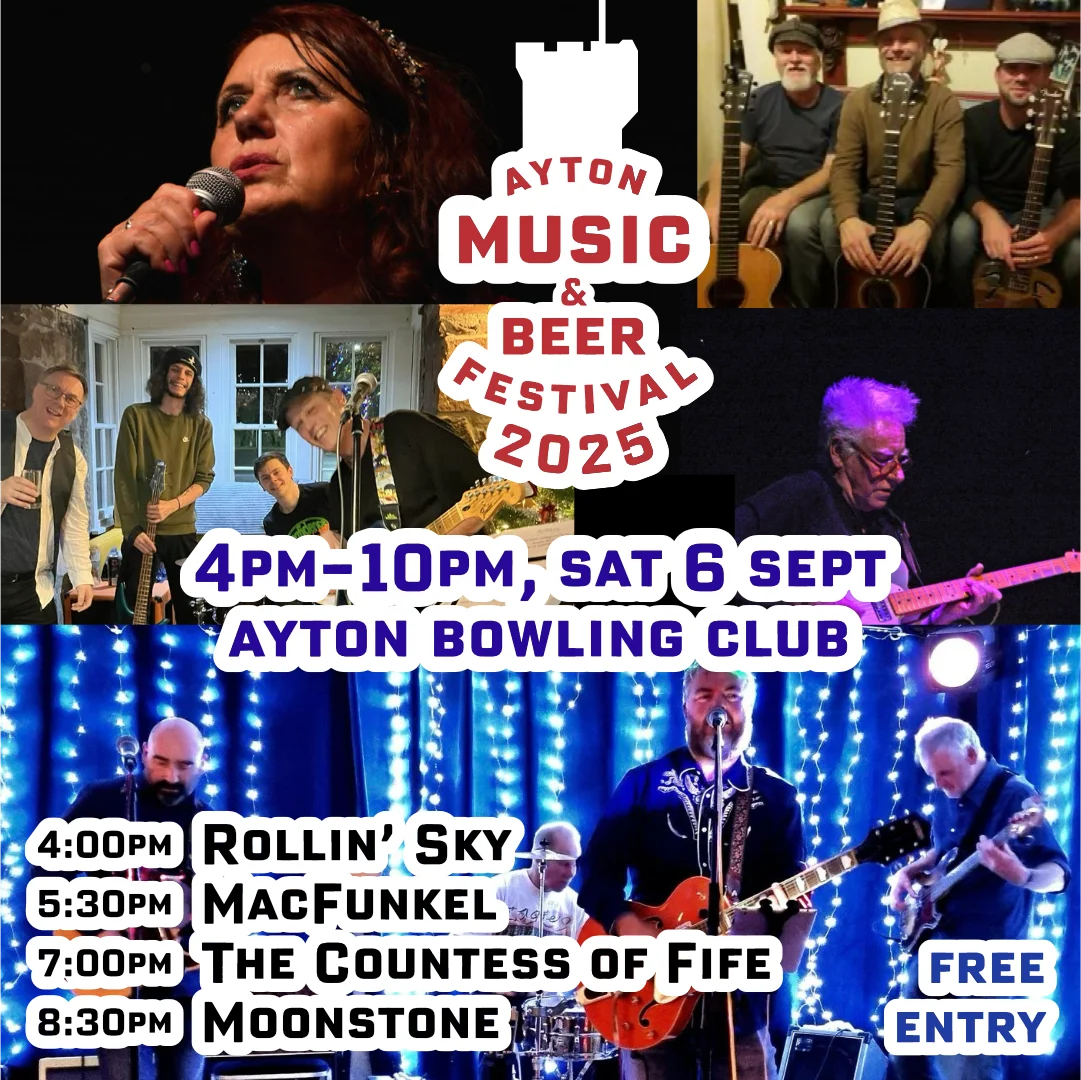
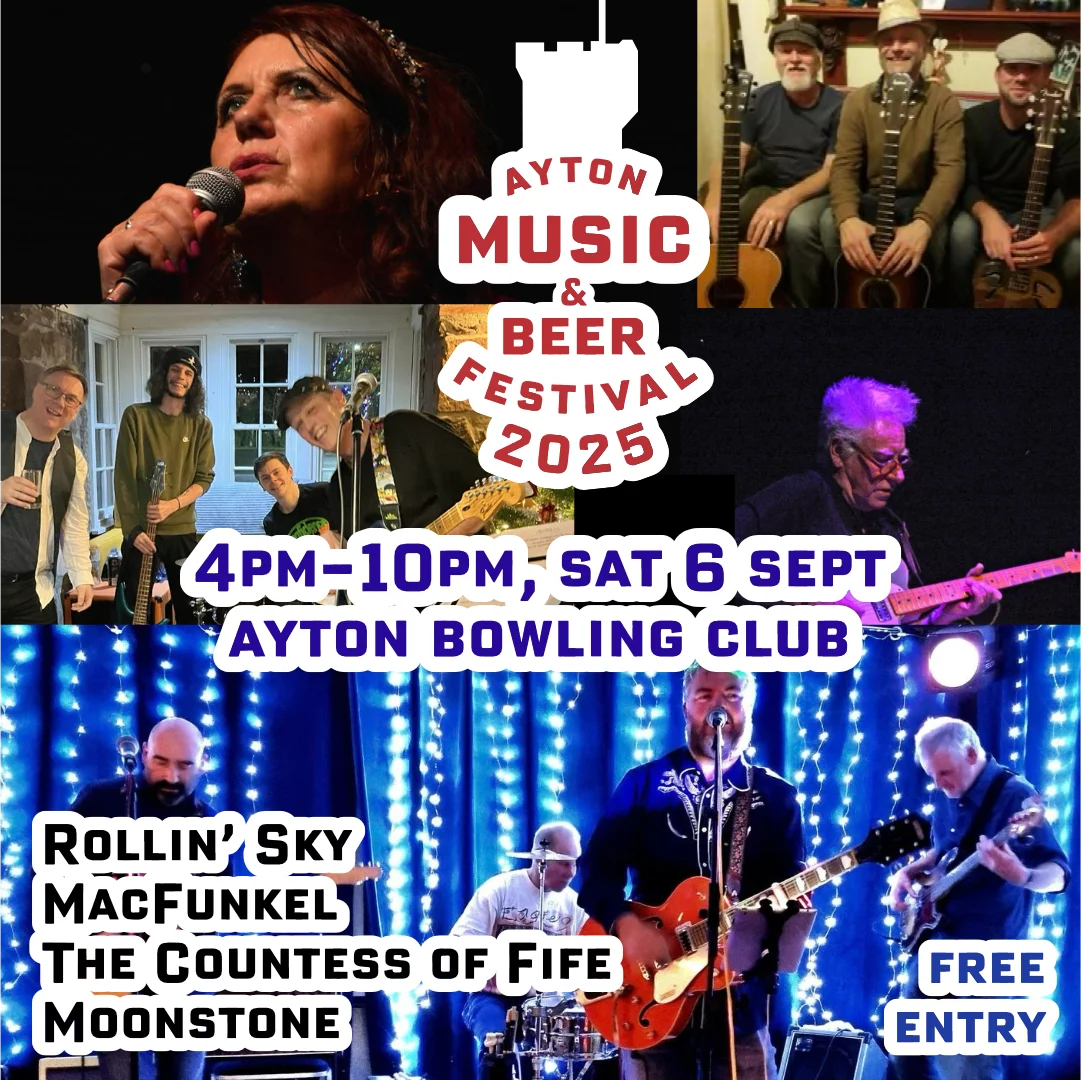
Update image

Changed region(s): [[0.0, 0.7333, 0.7327, 0.9778]]

diff --git a/main/content/calendar.md b/main/content/calendar.md
@@ -18,7 +18,7 @@ redirects:
 
 Ayton Show is back for 2025, on the first weekend of September. Click the image below for the full schedule, or visit [the page on the Ayton Gardening Society website](https://aytongardens.com/ayton-show-2025) for more information.
 
-This year also sees the introduction of Ayton Music & Beer Festival, immediately following Ayton Show. This inaugural event will see four bands performing, as well as a full bar featuring two guest casks.
+This year also sees the introduction of Ayton Music & Beer Festival, immediately following Ayton Show at 4pm. This inaugural event will see four bands performing, as well as a full bar featuring two guest casks.
 
 ---
 
